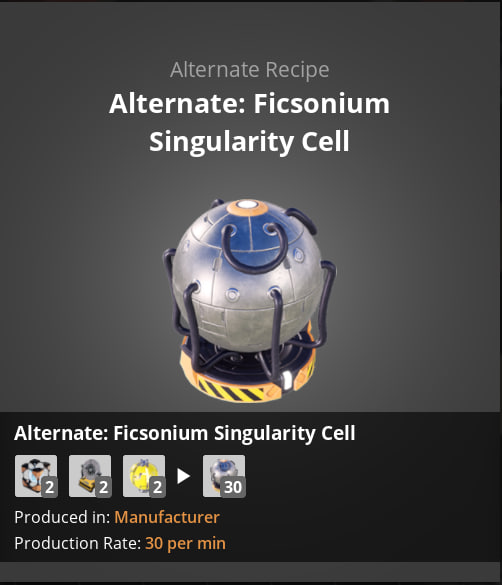
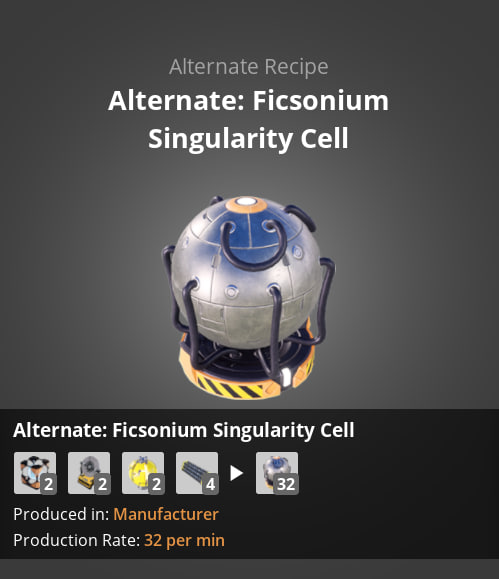
version 1.1, ContentLib dependency update, new recipes for fuel, new recipe for ficsonium fuel rods. Rebalance.

diff --git a/release.py b/release.py
@@ -16,13 +16,16 @@ shutil.copytree('src', windows_dir)
 shutil.copytree('src', windows_server_dir)
 shutil.copytree('src', linux_server_dir)
 
-with zipfile.ZipFile(os.path.join('build', MOD_ID), 'w', zipfile.ZIP_DEFLATED) as zipf:
-    for root, dirs, files in os.walk('src'):
+target_file = os.path.join('build', MOD_ID)
+with zipfile.ZipFile(target_file, 'w', zipfile.ZIP_DEFLATED) as zipf:
+    for root, dirs, files in os.walk('build'):
         for file in files:
             file_path = os.path.join(root, file)
-            
-            zipf.write(file_path, os.path.relpath(file_path, 'src'))
+            if file_path == target_file:
+                continue
+
+            zipf.write(file_path, os.path.relpath(file_path, 'build'))
         
         for dir_name in dirs:
             dir_path = os.path.join(root, dir_name)
-            zipf.write(dir_path, os.path.relpath(dir_path, 'src'))
+            zipf.write(dir_path, os.path.relpath(dir_path, 'build'))

diff --git a/install_steam.py b/install_steam.py
@@ -1,0 +1,19 @@
+import os
+import shutil
+from SteamPathFinder import get_steam_path, get_app_path, get_game_path
+
+satisfactory_path = get_game_path(get_steam_path(), '526870', 'Satisfactory')
+if not os.path.exists(satisfactory_path):
+    print("Satisfactory not found: " + satisfactory_path)
+    exit(-1)
+mods_folder = os.path.join(satisfactory_path, 'FactoryGame/Mods')
+if not os.path.exists(mods_folder):
+    print("Satisfactory SMM mod folder not found: " + mods_folder)
+    exit(-1)
+
+mod = os.path.join(mods_folder, 'DAlternativeBalance')
+if os.path.exists(mod):
+    print('Reinstalling...')
+    shutil.rmtree(mod)
+
+shutil.copytree('src', mod)

diff --git a/readme.md b/readme.md
@@ -1,5 +1,6 @@
 ### Mod development
 Run release.py script to create .zip file with mod in /build directory.
+Run install_steam.py script to copy mod folder into steamapps/common/Satisfactory/FactoryGame/Mods.
 
 ### Motivation
 Some recipes are completely useless. Look at "Leached \<thing\>" recipes. There is so much ore on the map that sulfur is a much more valuable resource. Ionized Fuel and SAM recipes seem as unusable as ore processing. Ionized Fuel provides little amount of energy for a high price. There are also problems with the balance of nuclear technologies: there is no point in recycling waste into better fuel, because there is already enough uranium energy.
@@ -28,15 +29,20 @@ There are two variants of ore processing:
 1. 1200 ore per minute require 600 Nitrogen Gas and 100 Sulfuric Acid.
 2. 1200 ore per minute require 150 Nitric Acid.
 
-Chain of processing method forces Pioneer to build large ore processing factories.
+Chain of processing methods forces Pioneer to build large ore processing factories.
 
 ### Oil and Fuel Rebalance
 #### Rebalance
 Ionized Fuel energy output 5,000 -> 7,000
 
-Recipe now produces 50 fuel per 1 shard.
+Ionized Fuel recipe now produces 50 fuel per 1 shard.
 
 ![Ionized Fuel Rebalance](https://raw.githubusercontent.com/Demonorium/DAlternativeBalance/refs/heads/master/docs/oil_3.jpg)
+
+##### (Ver 1.1) Changes
+Turbo Blend Fuel recipe now consumes more coal and sulfur, but has reduced heavy oil production.
+
+![Turbo fuel Rebalance](https://raw.githubusercontent.com/Demonorium/DAlternativeBalance/refs/heads/master/docs/oil_4.jpg)
 
 #### Alternate recipes
 
@@ -46,9 +52,16 @@ Recipe now produces 50 fuel per 1 shard.
 
 ![Direct recipe for Ionized Fuel](https://raw.githubusercontent.com/Demonorium/DAlternativeBalance/refs/heads/master/docs/oil_2.jpg)
 
+##### (Ver 1.1) Alt. Recipes
+![Heated plate](https://raw.githubusercontent.com/Demonorium/DAlternativeBalance/refs/heads/master/docs/oil_5.jpg)
+
+![Heated modular frame](https://raw.githubusercontent.com/Demonorium/DAlternativeBalance/refs/heads/master/docs/oil_6.jpg)
+
+![Heated heavy modular frame](https://raw.githubusercontent.com/Demonorium/DAlternativeBalance/refs/heads/master/docs/oil_7.jpg)
 
 #### Calculations and gameplay
 Additional recipes for oil production are consumers of Silica. Additional Sulfur production is useful for effective steel/ore/fuel production.
+Now there new recipes to use your fuel after uranium energym age.
 
 ### SAM Rebalance
 #### Alternate recipes
@@ -70,6 +83,15 @@ Additional recipes for oil production are consumers of Silica. Additional Sulfur
 The main purpose of changes is to reduce cost of SAM, to make it more usable. Also there are reduction of copper dust consumption.
 
 ### Nuclear power Rebalance
+#### (Ver 1.1) Alternate recipes
+
+![Alt Ficsonium Fuel Rod](https://raw.githubusercontent.com/Demonorium/DAlternativeBalance/refs/heads/master/docs/nuclear_0.jpg)
+
+#### (Ver 1.1) Calculations and gameplay
 1. Uranium rod energy output 50%
 2. Plutonium rod energy output 150%
 3. Ficsonium rod energy output 300%
+
+The recipe of uranium fuel rods was changed to reduce its cost.
+
+![Alt Nuclear recipes rebalance 1](https://raw.githubusercontent.com/Demonorium/DAlternativeBalance/refs/heads/master/docs/nuclear_1.jpg)
